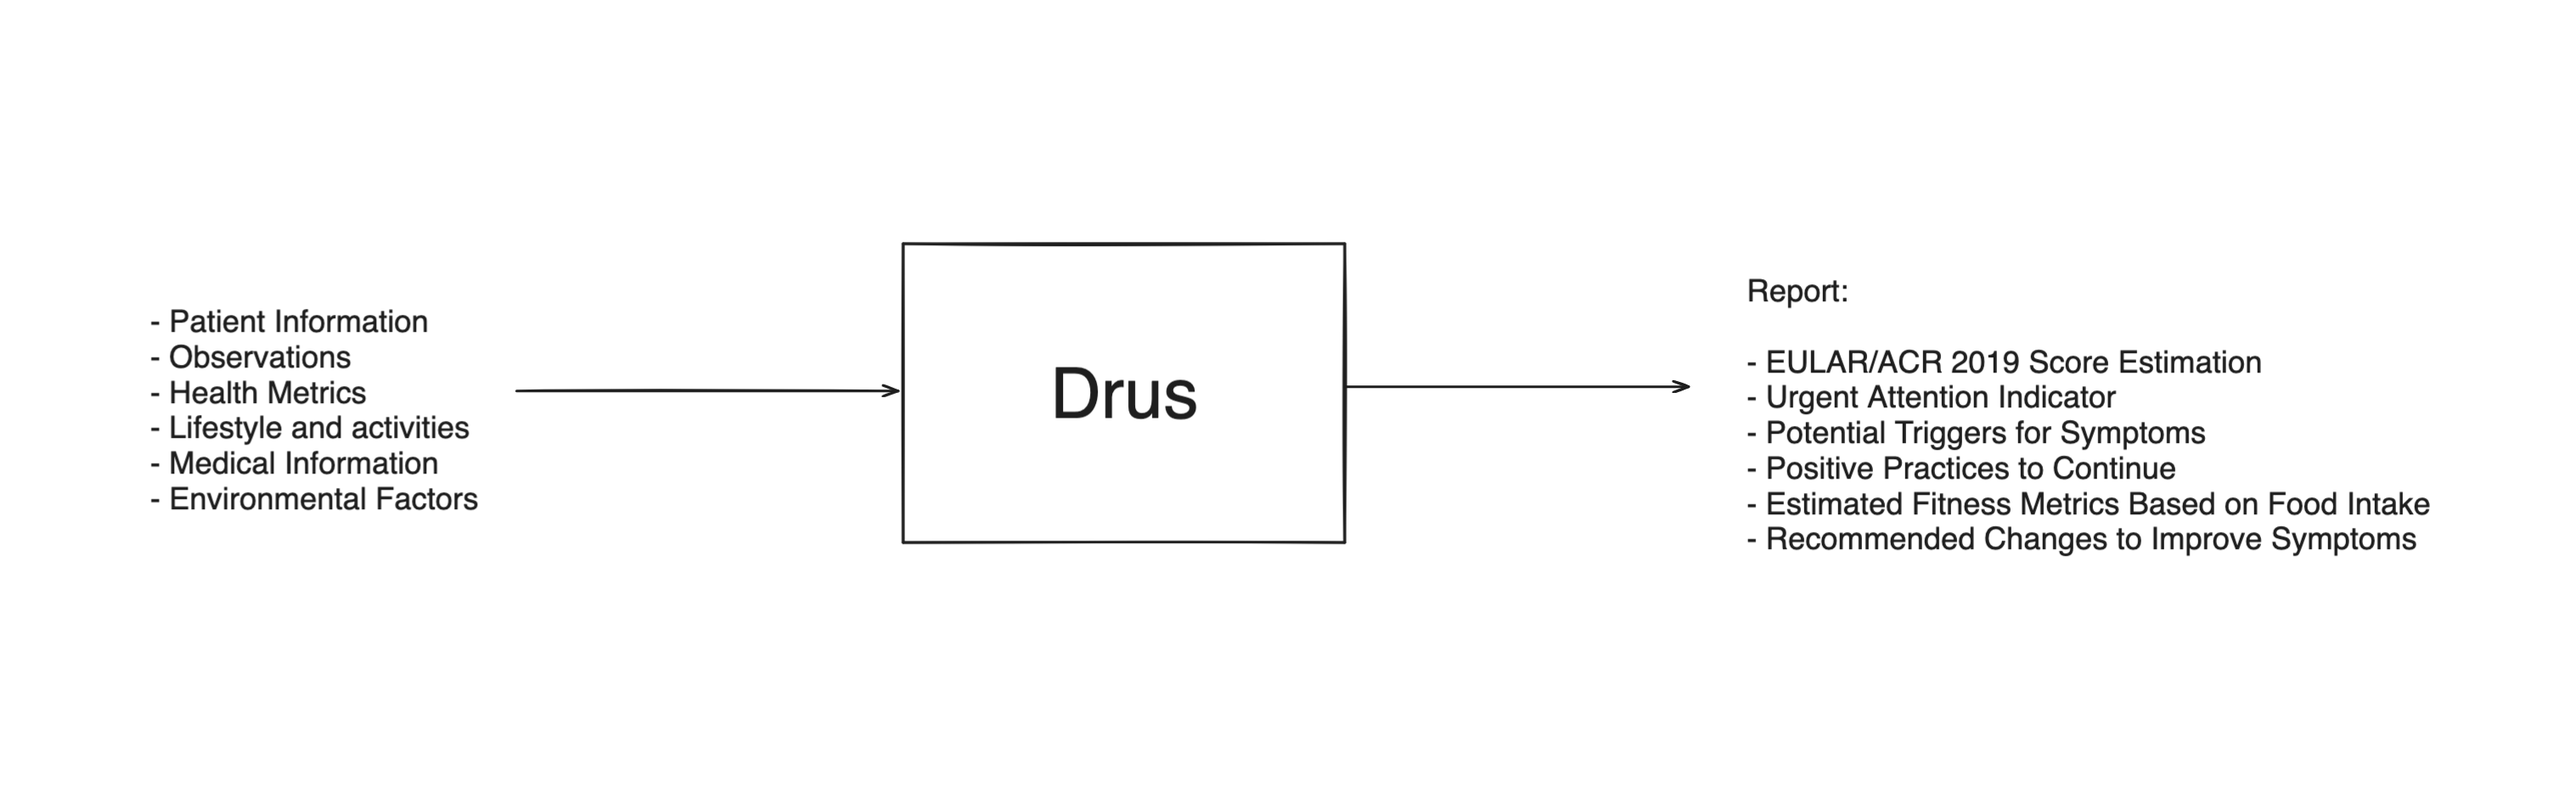
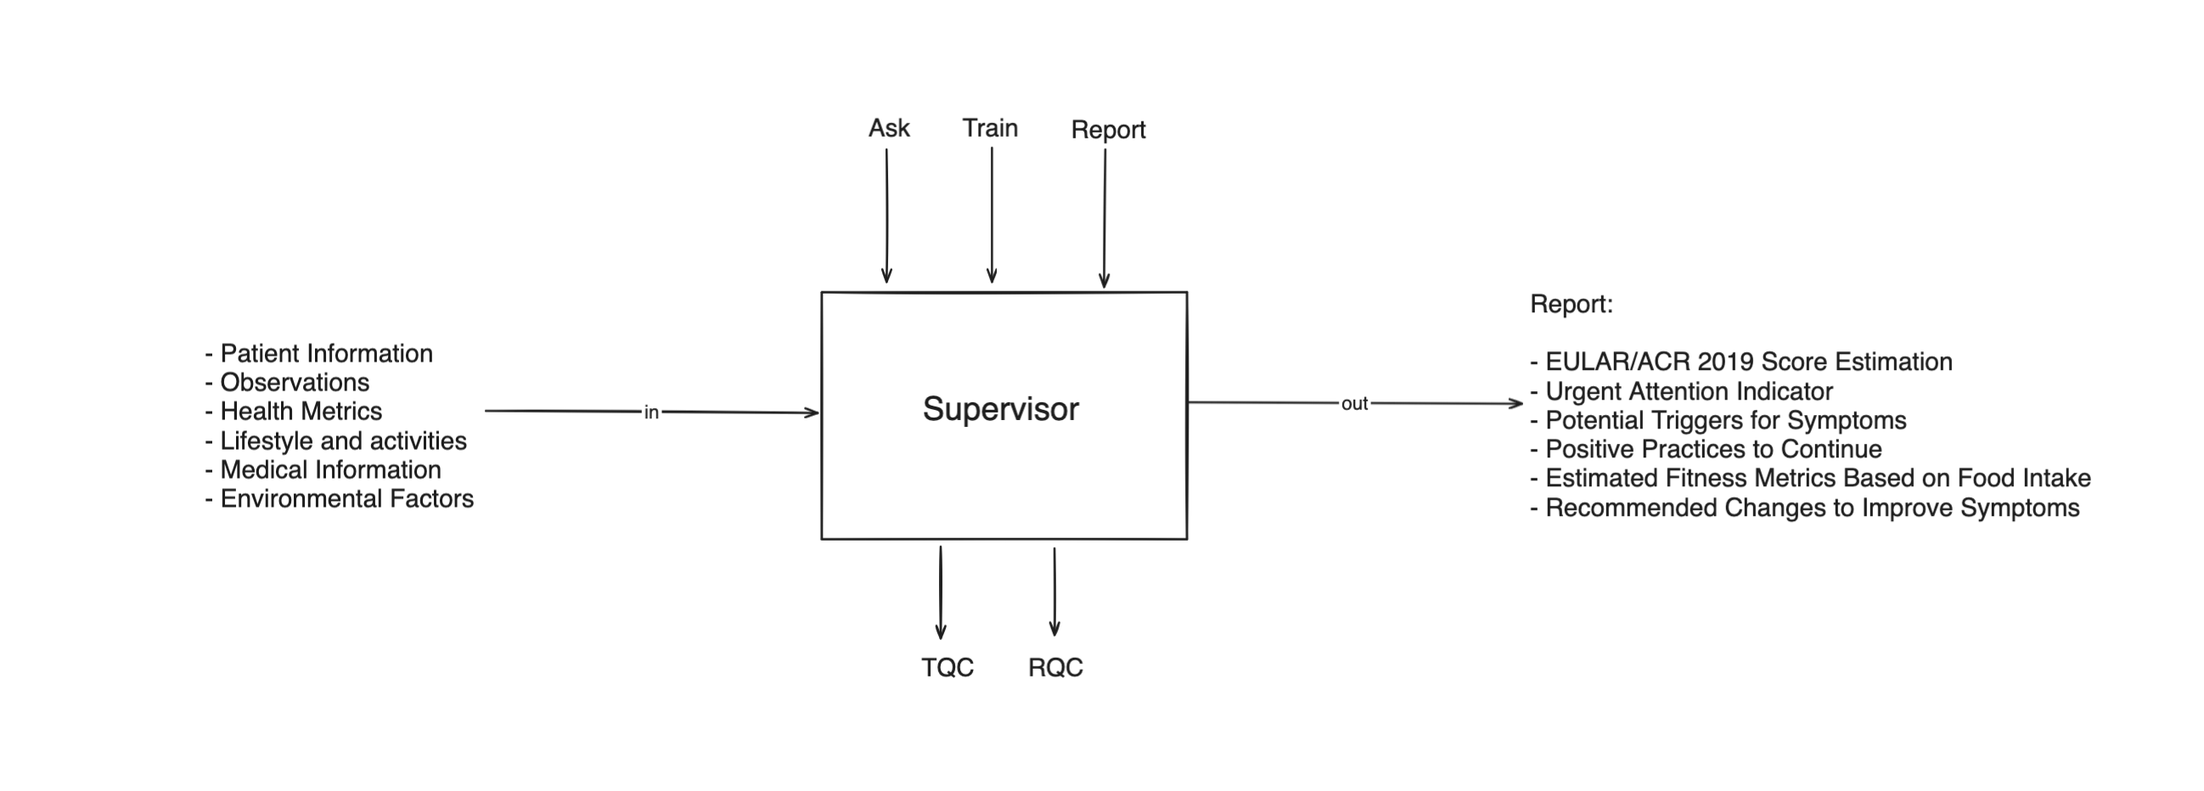
chore(docs): update readme

diff --git a/README.md b/README.md
@@ -1,10 +1,9 @@
-# Drus
-  ![Drus](./assets/blackbox.png)
+# Supervisor
+  ![Supervisor](./assets/blackbox.png)
 
-  Drus is an AI Supervisor trained on scientific research papers about Lupus and Sjogren's syndrome for accurate analysis, designed to analyze patient health metrics and symptoms. It generates detailed reports to help patients understand potential symptom triggers, suggest lifestyle changes to manage symptoms, and identify symptoms requiring urgent care.
+  Supervisor is and AI trained on scientific research papers about Lupus and Sjogren's syndrome for accurate analysis, designed to analyze patient health metrics and symptoms. It generates detailed reports to help patients understand potential symptom triggers, suggest lifestyle changes to manage symptoms, and identify symptoms requiring urgent care.
 
-
-# Abstract
+# Interface
 
 ## Inputs
 - Patient Information Object
@@ -61,10 +60,21 @@ Generate a report that includes:
 - Recommended Changes to Improve Symptoms
 - Indicator if any symptoms require urgent attention
 
+# Control Signals
+**Ask**: Requests for additional information or clarification.
+
+**Train**: Inputs used for training the system or updating its 
+knowledge base.
+
+**Report**: Commands to generate reports based on the available data.
+
+# Feedback Signals
+**TQC** (Train Queue Count): The number of items or tasks waiting in the queue to be processed for training.
+
+**RQC** (Report Queue Count): The number of reports waiting in the queue to be generated or processed.
 
 
-Sure, here are the JSON schemas for both input and output:
-
+# Schemas
 ## Input JSON Schema
 
 ```json
